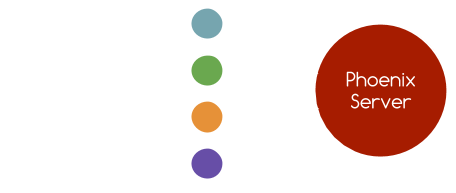
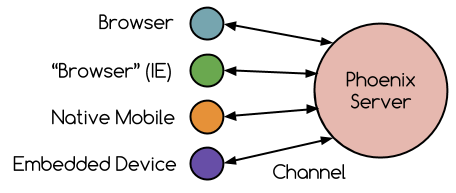
Changing everything to light background and light colors.

diff --git a/done/elixir-plus-phoenix@kariera-it-ktw/resources/public/css/style.css b/done/elixir-plus-phoenix@kariera-it-ktw/resources/public/css/style.css
@@ -20,7 +20,7 @@ body {
   height: inherit;
 
   font-size: 2em;
-  color: rgb(234, 234, 234);
+  color: #181818;
 
   margin: 0;
   padding: 0;
@@ -34,7 +34,7 @@ body {
 }
 
 .bg-color {
-  background-color: rgb(23, 24, 35);
+  background-color: #F7CA88;
 }
 
 .micro {
@@ -160,11 +160,11 @@ pre {
 }
 
 a {
-  color: white;
+  color: #181818;
 }
 
 a:active {
-  color: white;
+  color: #181818;
 }
 
 a:hover {
@@ -172,5 +172,5 @@ a:hover {
 }
 
 a:visited {
-  color: white;
+  color: #181818;
 }
